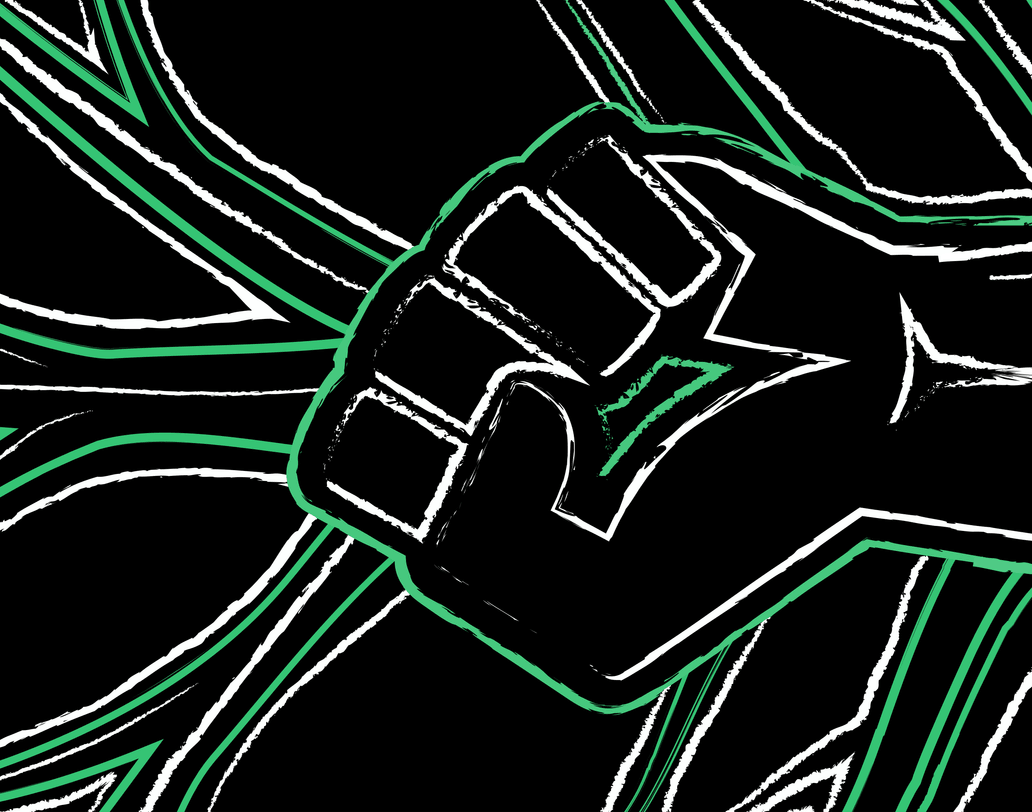
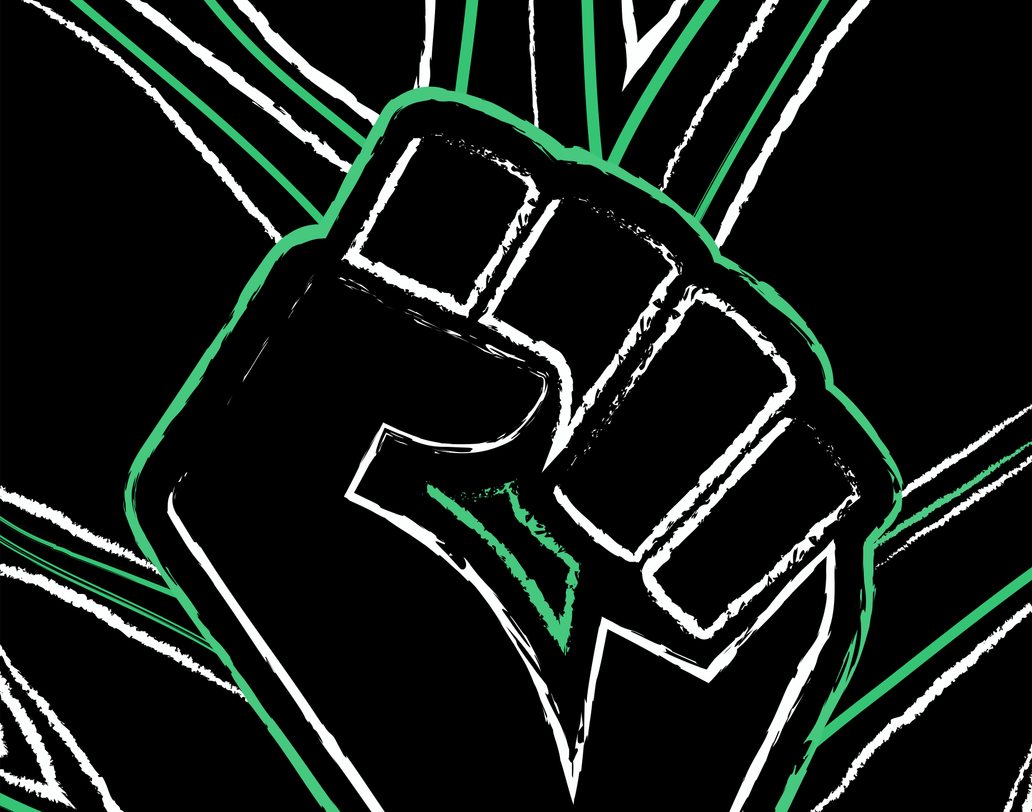
Raise the fist on the Verdirojas Google hero, as on the Apple poster (#457)

Changed region(s): [[0.0, 0.0, 1.0, 1.0], [0.9922, 0.0, 1.0, 0.0308]]

diff --git a/assets/templates/themes/README.md b/assets/templates/themes/README.md
@@ -93,10 +93,11 @@ id here rather than a year.
 - **Verdirojas (`verdirojas/`).** From two scarves. The card, poster and
   hero come from the Refugees Welcome scarf's vector print file. The card is
   the flower between REFUGEES and WELCOME, alone on black, darkened 40%. The
-  poster and hero are the raised fist from the scarf's end: upright on the
-  poster (darkened 25%), across the hero as the scarf runs. The thumbnail is
-  the watermelon slice between VERDI and ROJAS on the Verdirojas scarf, from
-  flatbed scans stitched together. The border is the watermelon's red.
+  poster and hero are the raised fist from the scarf's end, upright on both:
+  on the poster darkened 25%, on the hero the fist and forearm across the
+  scarf's full width. The thumbnail is the watermelon slice between VERDI
+  and ROJAS on the Verdirojas scarf, from flatbed scans stitched together.
+  The border is the watermelon's red.
 
 ## Adding a year
 
